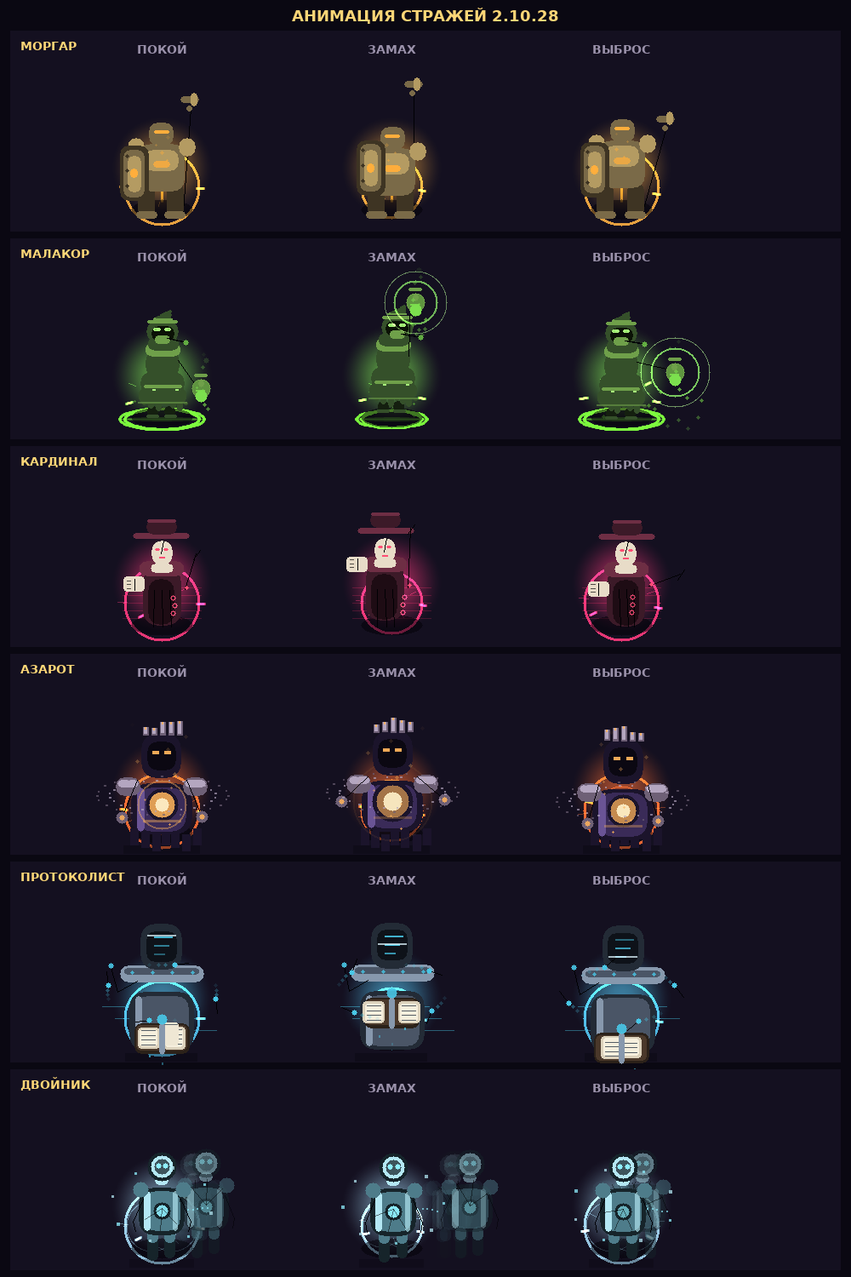
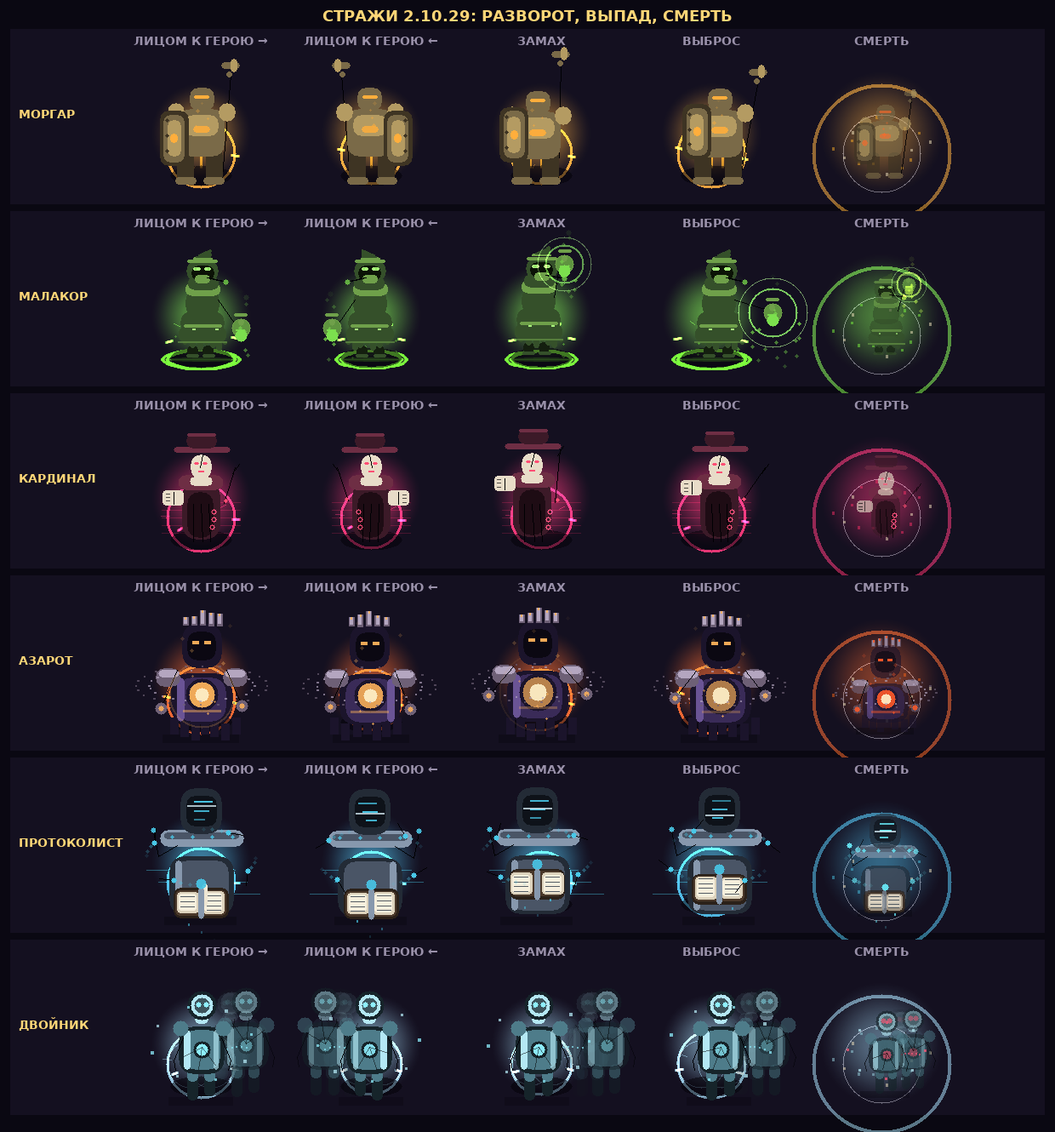
2.10.29: стражи разворачиваются к герою, вздрагивают от попаданий и умирают с кольцами
- зеркало фигуры по facing через MO/RX: страж повёрнут к герою, детали не съезжают
- выпад корпуса на выбросе и отклонение на замахе (castBurst/castPose)
- отдача от hitFlash: сжатие 5%, присед, плавное затухание вспышки
- смерть стража: 1.45 с, drawBossDeath с расходящимися кольцами и осколками
- плашка смены фазы вместо пустой функции: полосы, имя, номер фазы, 3.2 с
- design/boss_animations.png: 6 стражей x 5 кадров
- CHANGELOG, update.bat (2.10.29), тест кампании 14 проверок ALL OK

diff --git a/src/game.h b/src/game.h
@@ -167,7 +167,7 @@ static constexpr int MONSTER_TYPE_COUNT = 12;
 static constexpr int STORY_INTRO_VERSION = 4;
 static constexpr int PATCH_NOTES_VERSION = GAME_VERSION_NUM;
 // Every released version has one entry in the chronicle (see versions[]/notes[]).
-static constexpr int PATCH_NOTES_COUNT = 122;
+static constexpr int PATCH_NOTES_COUNT = 123;
 
 // ── Arena identity ──────────────────────────────────────────────────────────────
 // Each act is a different place, not the same floor with a new tint: stone, mortar,
@@ -389,6 +389,9 @@ struct Monster {
     float freezeTimer;
     float shootTimer;
     float animOffset;
+    // Сколько секунд страж уже умирает: фигура не исчезает между кадрами, а
+    // проседает и рассыпается (см. renderer drawBossDeath).
+    float deathTimer = 0.0f;
 };
 
 struct Projectile {
@@ -5032,8 +5035,16 @@ struct Game {
                 addFloatingText(playerX, playerY - 24.0f, buf, 0xFFFF3850, true);
             }
         }
+        // Мёртвый страж ещё полторы секунды остаётся на арене: иначе последний
+        // удар не виден вовсе. Обычные враги убираются сразу, как раньше.
+        for (Monster& m : monsters) {
+            if (m.hp > 0.0f || !m.isBoss) continue;
+            m.deathTimer += dt;
+        }
         monsters.erase(
-            std::remove_if(monsters.begin(), monsters.end(), [](const Monster& m) { return m.hp <= 0.0f; }),
+            std::remove_if(monsters.begin(), monsters.end(), [](const Monster& m) {
+                return m.hp <= 0.0f && (!m.isBoss || m.deathTimer > 1.45f);
+            }),
             monsters.end()
         );
         if (endingCutscenePending && !save.seenEndingCutscene) {
@@ -5737,6 +5748,11 @@ struct Game {
                 r.drawTextCentered(FONT_SMALL, sx, sy - 58, "РЕЗОНАТОР • РАЗРУШЬ", 0xFFE7C2FF);
                 continue;
             }
+            if (m.isBoss && m.hp <= 0.0f) {
+                r.drawBossDeath(sx, sy, m.bossType, globalTime + m.animOffset,
+                                std::min(1.0f, m.deathTimer / 1.45f));
+                continue;
+            }
             if (m.isBoss && m.abilityWindup > 0.0f) {
                 static const uint32_t tellPalette[6] = {0xFFFFC64A, 0xFF70E85F, 0xFFFF4E78, 0xFFFF7948, 0xFF62D8F0, 0xFFB6E8F4};
                 const uint32_t tellColor = tellPalette[m.bossType % 6];
@@ -5792,8 +5808,13 @@ struct Game {
                                      ? std::min(1.0f, (0.95f - m.abilityWindup) / 0.62f) : 0.0f;
                 const float castBurst = m.abilityActive > 0.0f
                                      ? std::min(1.0f, m.abilityActive / 0.5f) : 0.0f;
-                r.drawBossSprite(sx, sy, m.bossType, globalTime + m.animOffset, m.hitFlashTimer > 0.0f, m.bossPhase >= 3,
-                                 m.bossReinforced, castPose, castBurst);
+                // Страж поворачивается к герою и дёргается от попадания: раньше он
+                // смотрел в одну сторону при любом движении, а удар давал только
+                // белую вспышку без отдачи.
+                const float recoil = m.hitFlashTimer > 0.0f ? std::min(1.0f, m.hitFlashTimer / 0.18f) : 0.0f;
+                if (m.hp > 0.0f)
+                    r.drawBossSprite(sx, sy, m.bossType, globalTime + m.animOffset, m.hitFlashTimer > 0.0f,
+                                     m.bossPhase >= 3, m.bossReinforced, castPose, castBurst, m.facing < 0, recoil);
             } else {
                 r.drawMonsterSprite(sx, sy, m.type, globalTime + m.animOffset, m.hitFlashTimer > 0.0f, m.isElite, m.freezeTimer > 0.0f, m.facing < 0,
                                     m.isRat ? m.ratHeading : 0.0f);
@@ -8952,6 +8973,7 @@ struct Game {
             "2.10.26 • КАМПАНИЯ — КАРТА ГЛАВ С ИМЕНАМИ ДЕЛ И РАЗВИЛКОЙ",
             "2.10.27 • МАЛАКОР: ТРИ СКЛЯНКИ И ЖИВАЯ АНИМАЦИЯ",
             "2.10.28 • ПРОВЕРКА АНИМАЦИЙ ВСЕХ СТРАЖЕЙ: ЗАМАХ ЕСТЬ У КАЖДОГО",
+            "2.10.29 • СТРАЖИ ПОВОРАЧИВАЮТСЯ, ВЗДРАГИВАЮТ И УМИРАЮТ",
         };
                 // Keep each note to ~8 wrapped lines: the panel does not scroll.
         static const char* const notes[] = {
@@ -9076,7 +9098,8 @@ struct Game {
             "• Развилку можно было обойти: стоя в акте III, нажать «ПОЙТИ СЛЕДОМ А» и зафиксировать след там, где его выбирать нельзя. Теперь след фиксируется только на двери развилки — на первом деле акта II.\n• Пока след не выбран, дерево не листается дальше акта II, а ← и → переключают две двери развилки: А «СВИДЕТЕЛЬ» и Б «КОПИЯ». Раньше клавиатура всегда стояла на полосе А, и след Б с клавиатуры было не выбрать вовсе.\n• До выбора обе полосы выглядят равноправно: раньше обе были перечёркнуты, будто выбор уже сделан и потерян.\n• Дело впереди развилки больше не обещает «выбери след»: на кнопке честно написано «СНАЧАЛА ВЫБЕРИ СЛЕД», а досье объясняет, что след выбирают в акте II.",
             "• Кампания больше не список номеров: главы идут картой слева направо — акт I, развилка на два следа в актах II–IV и слияние в акте V. У каждого дела на карте своё имя, а не «05».\n• Развилку видно: дороги расходятся из первого акта и сходятся в последнем. Полоса следа А золотая, следа Б бирюзовая, чужой след гаснет. Для карты у длинных дел есть короткие имена, полные названия остались в досье.\n• Досье переехало под карту и стало шире: иллюстрация, брифинг, цель, а строкой ниже страж, время босса и тир. В низком окне досье ужимается ступенями — сначала теряет картинку, потом брифинг, — а не режет буквы.\n• Кнопка «К РАЗВИЛКЕ [TAB]»: пока след не выбран, из любого закрытого дела видно, где эта развилка.\n• Портретное и узкое окно: карта разворачивается в список по актам, дела идут строками с названиями, кнопки — двумя рядами, чтобы надписи не резались.\n• Проверено на 1920x1080, 1280x720, 1024x600, 900x520 и портретных 720x1280.",
             "• Малакор перестал быть мешком для битья. Он один дерётся на дистанции, поэтому скорость у него своя: раньше он плёлся со всеми и просто стоял мишенью. Запас здоровья 3300 → 4000.\n• Атака больше не одна лужа под ногами: он швыряет три склянки веером — ближнюю, среднюю и дальнюю. Колбы летят снарядами, разбиваются сами и оставляют три чумных пятна с разной задержкой, так что шагом в сторону не отделаться.\n• У Малакора появилась анимация: переступает с ноги на ногу, капюшон качается, подол хлещет, респиратор-клюв читается в силуэте, в колбе кипят пузыри и поднимаются пары, глаза горят неровно.\n• На замах он поднимает колбу над головой, а на выбросе швыряет её вперёд — сам замах видно по фигуре, как у остальных стражей.\n• Знак на полу у него теперь лужа, а не кольцо: прежнее кольцо проходило через туловище и читалось как обруч на фигуре.\n• Пример кадров — design/malakor_animation.png (покой, замах, выброс).",
-            "• Проверены все шесть стражей — не только Малакор. Замах и выброс теперь есть у КАЖДОГО: раньше поза была только у Малакора, а остальные на собственную способность не реагировали вовсе, хотя круг на полу уже показывал замах.\n• Моргар: корпус переносит тяжесть с ноги на ногу, алебарда качается, щит ходит с дыханием, стопы переступают, из щели в груди летят искры. На замахе приседает и поднимает древко, на выбросе уводит клюв вперёд.\n• Кардинал: шляпа покачивается, книга поднимается к груди, перо пишет мелким движением и вскидывается на замахе, цепочка печатей подрагивает.\n• Азарот: на замахе разгорается сердце, руки разводятся шире, фигура приподнимается; на выбросе резко проседает.\n• Протоколист: том поднимается к груди и раскрывается шире на замахе, на выбросе захлопывается и проседает.\n• Двойник: перед обменом местами слепок отходит дальше, после — оба сходятся; телепорт больше не выглядит беспричинным.\n• Проверка анимаций не на глаз: стенд считает, сколько пикселей меняется между кадрами и насколько сильно. Было у Моргара 479 меняющихся пикселей на кадр (самый статичный страж), стало 774; у Кардинала 828 → 853 при более крупных движениях книги и пера.\n• Лист кадров — design/boss_animations.png: все шесть стражей в покое, на замахе и на выбросе.",        };
+            "• Проверены все шесть стражей — не только Малакор. Замах и выброс теперь есть у КАЖДОГО: раньше поза была только у Малакора, а остальные на собственную способность не реагировали вовсе, хотя круг на полу уже показывал замах.\n• Моргар: корпус переносит тяжесть с ноги на ногу, алебарда качается, щит ходит с дыханием, стопы переступают, из щели в груди летят искры. На замахе приседает и поднимает древко, на выбросе уводит клюв вперёд.\n• Кардинал: шляпа покачивается, книга поднимается к груди, перо пишет мелким движением и вскидывается на замахе, цепочка печатей подрагивает.\n• Азарот: на замахе разгорается сердце, руки разводятся шире, фигура приподнимается; на выбросе резко проседает.\n• Протоколист: том поднимается к груди и раскрывается шире на замахе, на выбросе захлопывается и проседает.\n• Двойник: перед обменом местами слепок отходит дальше, после — оба сходятся; телепорт больше не выглядит беспричинным.\n• Проверка анимаций не на глаз: стенд считает, сколько пикселей меняется между кадрами и насколько сильно. Было у Моргара 479 меняющихся пикселей на кадр (самый статичный страж), стало 774; у Кардинала 828 → 853 при более крупных движениях книги и пера.\n• Лист кадров — design/boss_animations.png: все шесть стражей в покое, на замахе и на выбросе.",
+            "• Разворот: стражи больше не смотрят вправо, куда бы ни шли. Фигура зеркалится целиком — алебарда, щит, книга, колба, слепок Двойника, — поэтому страж всегда лицом к герою.\n• Выпад: раньше на ударе двигалась одна деталь (древко, книга, перо), а корпус стоял статуей. Теперь на замахе страж отклоняется назад, на выбросе подаётся всем телом к герою.\n• Отдача: попадание по стражу не только вспыхивает белым. Фигура приседает и сжимается на 5 процентов, вспышка держится 0.18 с и гаснет, так что серия попаданий читается телом, а не только цветом.\n• Смерть: раньше стражи исчезали в тот же кадр, что и падение полоски здоровья. Теперь у них 1.45 с на смерть — фигура проседает и сжимается, гаснет, из неё летят 16 осколков и два расходящихся кольца цвета стража. Видно, что босс именно убит, а не пропал.\n• Смена фазы перестала быть пустой: сверху и снизу экрана встают полосы цвета стража со сходящимися штрихами, по центру — имя, номер фазы и её название. Держится 3.2 с, вход и выход плавные, середина арены бою не мешает.\n• Лист кадров — design/boss_animations.png: все шесть стражей лицом к герою в обе стороны, замах, выброс и смерть.\n• Стенд смерти показал выжигание цвета: аддитивные кольца из многих сегментов уходили в белый. Теперь кольца рисуются обычным смешиванием и гаснут вместе с фигурой.",        };
         static_assert(sizeof(versions) / sizeof(versions[0]) == PATCH_NOTES_COUNT,
                       "хроника: versions[] должен совпадать с PATCH_NOTES_COUNT");
         static_assert(sizeof(notes) / sizeof(notes[0]) == PATCH_NOTES_COUNT,
@@ -10534,7 +10557,70 @@ struct Game {
 
     // The phase change is announced in the bottom-left stack (see drawCombatNotices), so this
     // hook stays empty on purpose: nothing is drawn in the middle of the battlefield any more.
-    void renderBossPhaseTransition(Renderer& r) { (void)r; }
+    // Смена фазы стража. Раньше на событие не было ничего, кроме тряски и звука:
+    // функция пустая, а баннер фазы жил своей жизнью. Теперь экран подхватывает
+    // событие: цветные полосы, которые сходятся к центру, имя стража и номер
+    // фазы. Держится 3,2 с, появляется и уходит плавно, и не перекрывает бой —
+    // полосы вверху и внизу, середина арены остаётся видимой.
+    void renderBossPhaseTransition(Renderer& r) {
+        if (bossPhaseEventTimer <= 0.0f) return;
+        static const uint32_t pal[6] = {0xFFFFB028, 0xFF80FF40, 0xFFFF3068,
+                                        0xFFFF6818, 0xFF49C8E8, 0xFF9EDBE8};
+        static const char* bossShort[6] = {"МОРГАР", "МАЛАКОР", "КАРДИНАЛ",
+                                           "АЗАРОТ", "ПРОТОКОЛИСТ", "ДВОЙНИК"};
+        static const char* phaseRoman[3] = {"I", "II", "III"};
+        static const char* phaseTitle[3] = {"ОХОТА", "НАТИСК", "ЯРОСТЬ"};
+        const int bossId = std::max(0, std::min(5, bossPhaseEventType));
+        const int phase = std::max(1, std::min(3, bossPhaseEventNumber));
+        const uint32_t col = pal[bossId];
+        const float total = 3.2f;
+        const float elapsed = total - bossPhaseEventTimer;
+        // Огибающая: быстрый вход, короткое удержание, мягкий выход.
+        float envelope = 1.0f;
+        if (elapsed < 0.28f) envelope = elapsed / 0.28f;
+        else if (bossPhaseEventTimer < 0.9f) envelope = bossPhaseEventTimer / 0.9f;
+        envelope = std::max(0.0f, std::min(1.0f, envelope));
+        // Полосы фиксированной высоты: анимируется прозрачность, а не размер.
+        // Пока высота ползла, буквы «приезжали» вместе с ней и дёргались.
+        const int bandScale = SCREEN_H > 900 ? 92 : (SCREEN_H > 700 ? 76 : 62);
+        const int topH = bandScale, botH = bandScale;
+        r.fillRect(0, 0, SCREEN_W, topH, 0xFF07050D, (int)(215 * envelope));
+        r.fillRect(0, SCREEN_H - botH, SCREEN_W, botH, 0xFF07050D, (int)(215 * envelope));
+        r.fillRect(0, topH - 2, SCREEN_W, 2, col, (int)(235 * envelope));
+        r.fillRect(0, SCREEN_H - botH, SCREEN_W, 2, col, (int)(235 * envelope));
+        // Сходящиеся к центру штрихи: движение есть, кадр не статичен.
+        const int sweep = (int)(elapsed / 0.55f * (SCREEN_W * 0.5f));
+        if (sweep < SCREEN_W / 2) {
+            const int len = (int)(90 * (1.0f - envelope * 0.4f));
+            for (int side = 0; side < 2; ++side) {
+                const int x0 = side == 0 ? -len + sweep : SCREEN_W + len - sweep;
+                r.drawLine(x0, topH / 2, x0 + (side == 0 ? len : -len), topH / 2, col, 2,
+                           (int)(190 * envelope), true);
+                r.drawLine(x0, SCREEN_H - botH / 2, x0 + (side == 0 ? len : -len), SCREEN_H - botH / 2,
+                           col, 2, (int)(190 * envelope), true);
+            }
+        }
+        char title[96], sub[96];
+        snprintf(title, sizeof(title), "%s • ФАЗА %s", bossShort[bossId], phaseRoman[phase - 1]);
+        snprintf(sub, sizeof(sub), "%s", phaseTitle[phase - 1]);
+        // Заголовок и подпись держим внутри полосы: снаружи они наезжали на её
+        // нижнюю границу и читались как обрезанный текст.
+        // Заголовок и подпись — одна колонка сверху вниз: подпись ровно под
+        // заголовком, без наложения строк.
+        const int titleY = std::max(4, (topH - FONT_MED.lineHeight - FONT_SMALL.lineHeight) / 2);
+        const int subY = titleY + FONT_MED.lineHeight + 1;
+        if (titleY > 2) {
+            r.drawTextCentered(FONT_MED, SCREEN_W / 2, titleY, title, col, true, (int)(255 * envelope));
+            r.drawTextCentered(FONT_SMALL, SCREEN_W / 2, subY, sub,
+                               0xFFE8DCF8, true, (int)(210 * envelope));
+        }
+        const int botTextY = SCREEN_H - botH / 2 - FONT_SMALL.ascent / 2;
+        if (botTextY + FONT_SMALL.lineHeight < SCREEN_H) {
+            static const char* lastPhaseLines[2] = {"СТРАЖ СТАЛ ЗЛЕЕ", "ПОСЛЕДНЯЯ ФАЗА — ДОБЕЙ"};
+            r.drawTextCentered(FONT_SMALL, SCREEN_W / 2, botTextY, lastPhaseLines[phase == 3 ? 1 : 0],
+                               col, true, (int)(200 * envelope));
+        }
+    }
 
     void render(Renderer& r) {
         r.skillIconStyle = std::max(0, std::min(2, options.skillIconStyle));

diff --git a/src/renderer.h b/src/renderer.h
@@ -958,26 +958,47 @@ struct Renderer {
     // echo == true renders the trio copy: same shape, spectral and translucent.
     // castPose: 0..1 — насколько замах уже сделан (колба поднята над головой),
     // castBurst: 0..1 — удар/выброс уже случился (колба выброшена вперёд).
+    // mirror: страж повёрнут влево — фигура рисуется зеркально, к герою.
+    // recoil: 0..1 — отдача от попадания: фигура приседает и сжимается.
     void drawBossFigure(int cx, int cy, int bossType, float animTime, bool hitFlash, bool enraged, bool echo,
-                        float s = 1.0f, float castPose = 0.0f, float castBurst = 0.0f) {
+                        float s = 1.0f, float castPose = 0.0f, float castBurst = 0.0f,
+                        bool mirror = false, float recoil = 0.0f, float fade = 1.0f) {
         const int id = bossType % 6;
         const uint32_t flash = 0xFFFFF0C8;
         const float breath = 0.5f + 0.5f * sinf(animTime * 2.2f);
         const int lift = (int)(sinf(animTime * 1.6f) * 2.0f);
         auto tint = [&](uint32_t c) { return hitFlash ? lerpColor(c, flash, 0.7f) : c; };
-        const int alpha = echo ? 205 : 255;
+        const int alpha = (int)((echo ? 205 : 255) * std::max(0.0f, std::min(1.0f, fade)));
 
         // Everything below is written in one canonical 1:1 size; the helpers rescale it so
         // the same figure works in the arena and on the campaign dossier card.
-        const float sc = s;
-        auto PX = [&](int ax) { return cx + (int)lrintf((ax - cx) * sc); };
-        auto PY = [&](int ay) { return cy + (int)lrintf((ay - cy) * sc); };
+        //
+        // Зеркало делается здесь, в переводе координат: вся фигура нарисована
+        // в одной системе, поэтому достаточно отразить смещение от центра — и
+        // страж поворачивается к герою, а не идёт спиной вперёд. Раньше стражи
+        // не разворачивались вообще: любой из них смотрел вправо при любом
+        // движении по арене.
+        const float sc = s * (1.0f - recoil * 0.05f);
+        const int cyAdj = cy + (int)(recoil * 3.0f);
+        // Выпад. Раньше удар стража читался только по одной детали — древку, книге,
+        // перу: корпус стоял на месте, будто статуя махнула рукой. Теперь на замахе
+        // страж отклоняется назад, а на выбросе подаётся всем телом к герою.
+        const float cpLean = std::max(0.0f, std::min(1.0f, castPose));
+        const float cbLean = std::max(0.0f, std::min(1.0f, castBurst));
+        const int lunge = (int)lrintf((cbLean * 13.0f - cpLean * 6.0f) * sc) * (mirror ? -1 : 1);
+        cx += lunge;
+        auto MO = [&](int ax) { return mirror ? (cx - ax) : (ax - cx); };
+        auto PX = [&](int ax) { return cx + (int)lrintf(MO(ax) * sc); };
+        auto PY = [&](int ay) { return cyAdj + (int)lrintf((ay - cy) * sc); };
         auto SS = [&](int v) { return std::max(1, (int)lrintf(v * sc)); };
+        // Для прямоугольников в зеркале берём правый край как левый, иначе
+        // деталь съезжает на свою же ширину.
+        auto RX = [&](int x, int w) { return cx + (int)lrintf((MO(x) - (mirror ? w : 0)) * sc); };
         auto FR = [&](int x, int y, int w, int h, int rad, uint32_t c, int a = 255) {
-            fillRoundedRect(PX(x), PY(y), SS(w), SS(h), std::max(1, (int)lrintf(rad * sc)), c, a);
+            fillRoundedRect(RX(x, w), PY(y), SS(w), SS(h), std::max(1, (int)lrintf(rad * sc)), c, a);
         };
         auto FC = [&](int x, int y, int r, uint32_t c, int a = 255) { fillCircle(PX(x), PY(y), SS(r), c, a); };
-        auto FX = [&](int x, int y, int w, int h, uint32_t c, int a = 255) { fillRect(PX(x), PY(y), SS(w), SS(h), c, a); };
+        auto FX = [&](int x, int y, int w, int h, uint32_t c, int a = 255) { fillRect(RX(x, w), PY(y), SS(w), SS(h), c, a); };
         auto DL = [&](int x0, int y0, int x1, int y1, uint32_t c, int th = 1, int a = 255, bool add = false) {
             drawLine(PX(x0), PY(y0), PX(x1), PY(y1), std::max(1, (int)lrintf(th * sc)), c, a, add);
         };
@@ -1504,7 +1525,8 @@ struct Renderer {
     }
 
     void drawBossSprite(int cx, int cy, int bossType, float animTime, bool hitFlash, bool enraged = false,
-                        bool reinforced = false, float castPose = 0.0f, float castBurst = 0.0f) {
+                        bool reinforced = false, float castPose = 0.0f, float castBurst = 0.0f,
+                        bool mirror = false, float recoil = 0.0f, float fade = 1.0f) {
         int auraRad = 40 + (int)(sinf(animTime * 7.0f) * 5.0f);
         static const uint32_t auraPalette[6] = {0xFFFFB028, 0xFF80FF40, 0xFFFF3068, 0xFFFF6818, 0xFF49C8E8, 0xFF9EDBE8};
         const int bossId = bossType % 6;
@@ -1603,7 +1625,43 @@ struct Renderer {
         }
         addGlow(cx, cy, 62, auraCol, enraged ? 190 : 140);
         drawShadow(cx, cy + 50, 36, 12);
-        drawBossFigure(cx, cy, bossType, animTime, hitFlash, enraged, false, 1.12f, castPose, castBurst);
+        drawBossFigure(cx, cy, bossType, animTime, hitFlash, enraged, false, 1.12f, castPose, castBurst,
+                       mirror, recoil, fade);
+    }
+
+    // Смерть стража. Раньше босс исчезал между кадрами: попадал последний удар —
+    // и на его месте уже пусто. Теперь фигура проседает и сжимается, вспыхивает,
+    // рассыпается осколками и уходит в расширяющееся кольцо.
+    //   progress: 0 — только что погиб, 1 — пора убирать.
+    void drawBossDeath(int cx, int cy, int bossType, float animTime, float progress) {
+        static const uint32_t pal[6] = {0xFFFFB028, 0xFF80FF40, 0xFFFF3068,
+                                        0xFFFF6818, 0xFF49C8E8, 0xFF9EDBE8};
+        const float p = std::max(0.0f, std::min(1.0f, progress));
+        const uint32_t col = pal[bossType % 6];
+        const int fadeA = (int)(255.0f * (1.0f - p * p));
+        addGlow(cx, cy, 56 + (int)(p * 50.0f), col, (int)(190.0f * (1.0f - p)));
+        // Кольцо смерти расходится от фигуры.
+        drawCircleRing(cx, cy + 24, 26 + (int)(p * 130.0f), p < 0.5f ? 4 : 2, col,
+                       (int)(225.0f * (1.0f - p)), true);
+        drawCircleRing(cx, cy + 24, 14 + (int)(p * 78.0f), 1, 0xFFFFFFFF,
+                       (int)(160.0f * (1.0f - p)), true);
+        // Осколки: разлетаются по кругу и провисают вниз, как настоящие обломки.
+        for (int i = 0; i < 16; ++i) {
+            const float a = i * 6.2831853f / 16.0f + animTime * 0.4f;
+            const float dist = 18.0f + p * (46.0f + (i % 4) * 16.0f);
+            const int px = cx + (int)(cosf(a) * dist);
+            const int py = cy + 10 + (int)(sinf(a) * dist * 0.6f + p * p * 26.0f);
+            const int sz = std::max(1, 4 - (int)(p * 3.0f));
+            fillRect(px - sz / 2, py - sz / 2, sz, sz + (i % 2), i % 3 ? col : 0xFFFFF0C8,
+                     (int)(215.0f * (1.0f - p)));
+        }
+        // Сама фигура: проседает, сжимается и гаснет. Первую треть она ещё
+        // светится вспышкой — удар был последним.
+        const float shrink = 1.12f * (1.0f - p * 0.55f);
+        const int sink = (int)(p * 20.0f);
+        drawBossFigure(cx, cy + sink, bossType, animTime, p < 0.3f, true, false, shrink,
+                       0.0f, p * 0.85f, false, p * 0.7f, 1.0f - p * 0.85f);
+        (void)fadeA;
     }
 
     // Эхо-двойники из третьей фазы: та же фигура, но призрачная и полупрозрачная.

diff --git a/src/version.h b/src/version.h
@@ -7,9 +7,9 @@
 // drift apart again. The fallback below only applies to plain `g++` builds
 // (IDE, syntax check, the headless tests).
 #ifndef GAME_VERSION
-#define GAME_VERSION "2.10.28"
+#define GAME_VERSION "2.10.29"
 #endif
 #ifndef GAME_VERSION_NUM
 // 2.9.80 -> 2*1000 + 9*100 + 80
-#define GAME_VERSION_NUM 3028
+#define GAME_VERSION_NUM 3029
 #endif

diff --git a/CHANGELOG.md b/CHANGELOG.md
@@ -1,6 +1,35 @@
-# CHANGELOG — ShadowSurvivors 2.10.28+
+# CHANGELOG — ShadowSurvivors 2.10.29+
 
-## 2.10.28 (текущая версия) — «Проверка анимаций всех стражей»
+## 2.10.29 (текущая версия) — «Стражи поворачиваются, вздрагивают и умирают»
+
+### Как проверял
+Три стенда на реальном рендерере: `/tmp/mirror` (6 стражей в двух разворотах
+плюс удар и замах), `/tmp/death` (6 кадров смерти на каждого, progress
+0.00–0.90) и `/tmp/phase` (вход / удержание / выход плашки фазы). Каждый страж
+в своей ячейке, чтобы ореол соседа не считался его движением.
+
+### Что нашлось
+| Место | Найдено |
+|---|---|
+| Разворот | `facing` у стража был, но в `drawBossFigure` его никто не читал: любой страж шёл спиной вперёд, детали (щит, алебарда, книга) оставались с одной стороны |
+| Удар | поза двигала **одну** деталь: древко, книгу, перо; корпус стоял статуей — удар читался как «махнула рука» |
+| Попадание | только `hitFlash`: тело не реагировало, серия попаданий выглядела одной длинной вспышкой |
+| Смерть | стражи удалялись из `monsters` в тот же кадр, что и падение полоски: `/tmp/death` вообще нечего было снимать |
+| Смена фазы | `renderBossPhaseTransition` — пустая функция `(void)r;`, хотя событие живёт 3.2 с |
+| Кольца смерти | аддитивные кольца из многих сегментов выжигали цвет в белый (на `/tmp/d_0.png` фигура терялась) |
+
+### Что исправлено
+- Зеркало: `MO(ax)` и `RX(x, w)` отражают смещение от центра, поэтому фигура
+  разворачивается целиком. `mirror` проброшен из `facing < 0` в `drawBossSprite`.
+- Выпад: к центру фигуры прибавляется `cb*13 − cp*6` px в сторону героя.
+- Отдача: `recoil` из `hitFlashTimer / 0.18` — сжатие 5 %, присед 3 px.
+- Смерть: `deathTimer`, 1.45 с жизни после нуля HP, `drawBossDeath` с кольцами
+  (`additive = false`), 16 осколками, просадкой и затуханием.
+- Плашка фазы: полосы фиксированной высоты (62/76/92 px по высоте экрана),
+  прозрачность по огибающей, штрихи сходятся к центру, текст внутри полосы.
+- Лист кадров: `design/boss_animations.png` — 6 стражей × 5 кадров.
+
+## 2.10.28 — «Проверка анимаций всех стражей»
 
 ### Как проверял
 Кадры снимались на реальном рендерере (стенд `drawBossSprite` в 6 позах на
